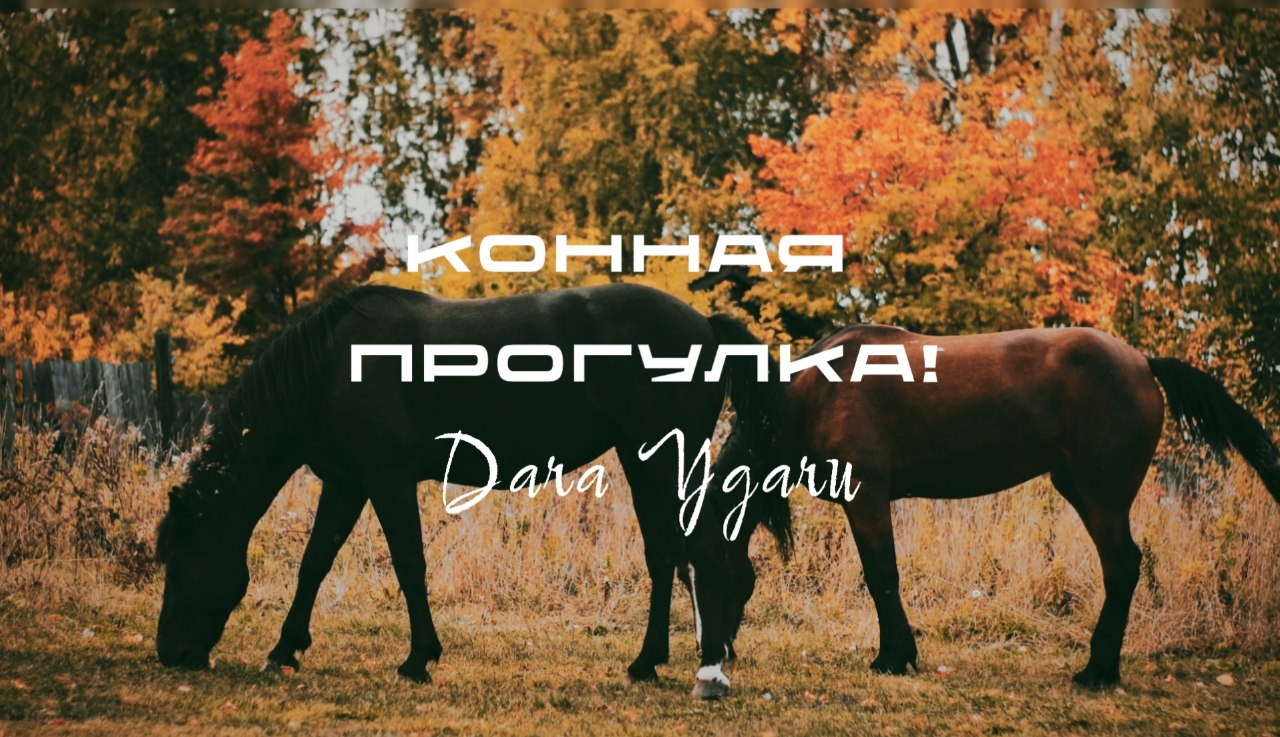
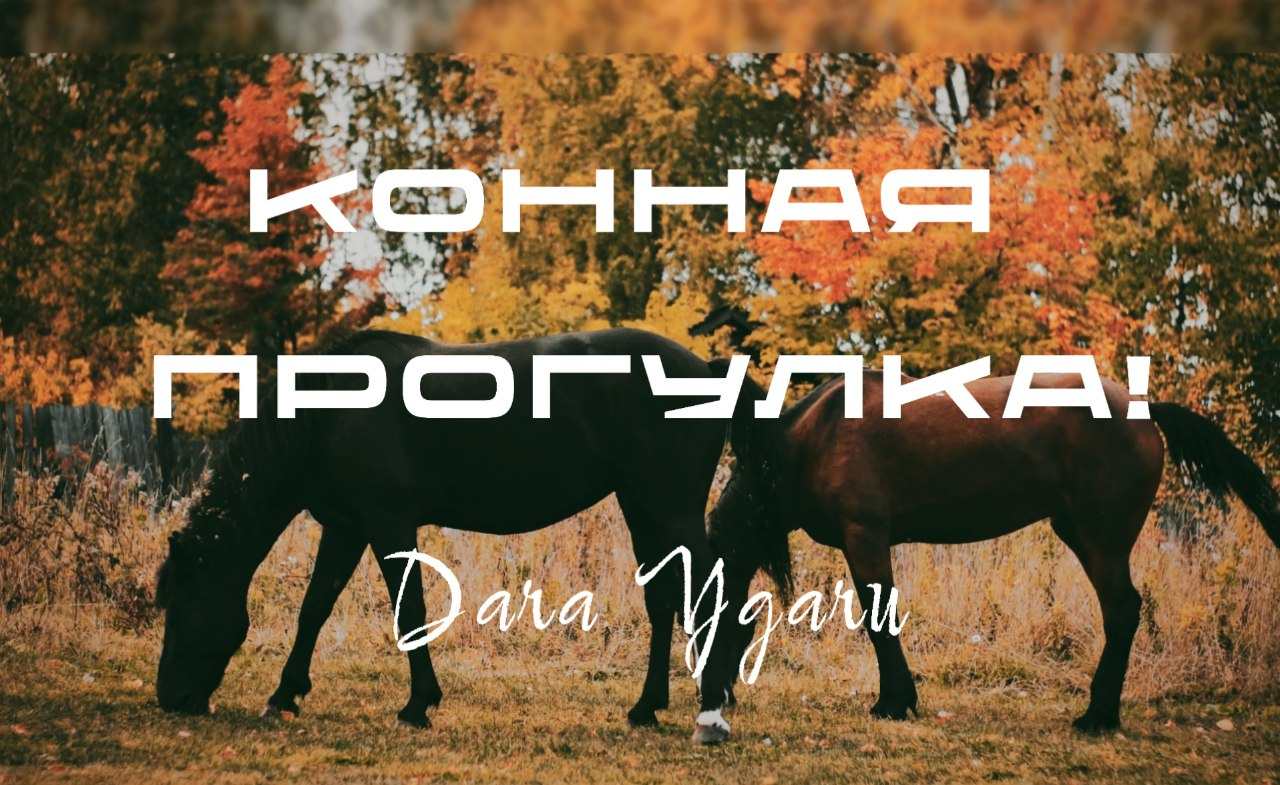
изменил изображения и настройки изображения

diff --git a/index.html b/index.html
@@ -182,9 +182,9 @@
                 padding: 6px 14px;
             }
             .hero {
-                height: 50vh;
-                background-position: 60% center;
-                background-size: cover;
+                background-size: contain;
+                background-position: top center;
+                height: 40vh;
             }
             .up {
                 bottom: 20px;
